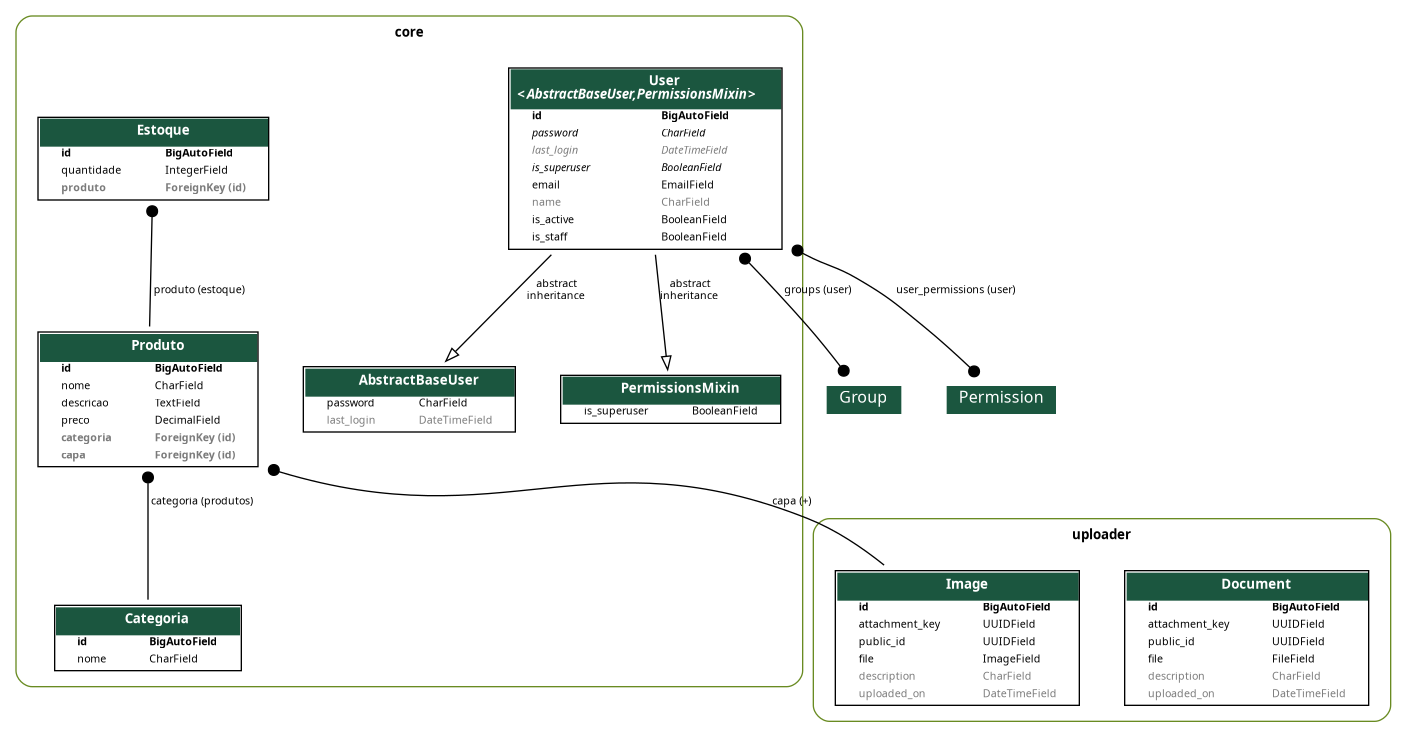
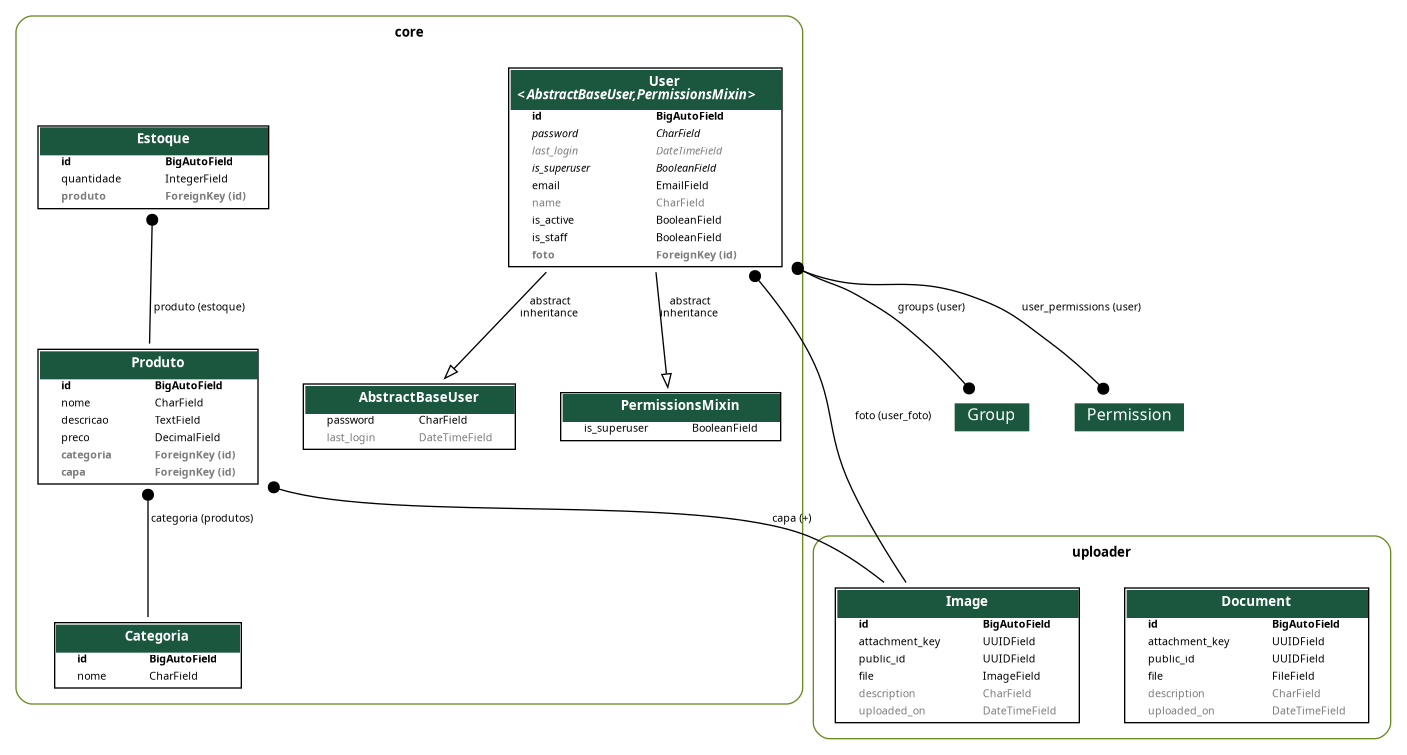
Feat 2: #3 Inserção da foto de usuario

diff --git a/core/serializers/user.py b/core/serializers/user.py
@@ -1,18 +1,40 @@
-from rest_framework import serializers
-from rest_framework.serializers import ModelSerializer
+from rest_framework.serializers import CharField, ModelSerializer, SlugRelatedField
 
 from core.models import User
+from uploader.models import Image
+from uploader.serializers import ImageSerializer
 
 
 class UserSerializer(ModelSerializer):
+    foto_attachment_key = SlugRelatedField(
+        source='foto',
+        queryset=Image.objects.all(),
+        slug_field='attachment_key',
+        required=False,
+        write_only=True,
+    )
+    foto = ImageSerializer(
+        required=False,
+        read_only=True
+    )
     class Meta:
         model = User
-        fields = ['id', 'email', 'name', 'is_active', 'is_staff', 'is_superuser', 'last_login', 'groups']
+        fields = (
+            'id',
+            'email',
+            'name',
+            'foto',
+            'foto_attachment_key',
+            'is_active',
+            'is_staff',
+            'is_superuser',
+            'last_login',
+            'groups')
         depth = 1
 
 
 class UserRegistrationSerializer(ModelSerializer):
-    password = serializers.CharField(write_only=True, min_length=8)
+    password = CharField(write_only=True, min_length=8)
 
     class Meta:
         model = User

diff --git a/core/migrations/0011_user_foto.py b/core/migrations/0011_user_foto.py
@@ -1,0 +1,20 @@
+# Generated by Django 5.2.13 on 2026-05-20 11:29
+
+import django.db.models.deletion
+from django.db import migrations, models
+
+
+class Migration(migrations.Migration):
+
+    dependencies = [
+        ('core', '0010_produto_capa'),
+        ('uploader', '0001_initial'),
+    ]
+
+    operations = [
+        migrations.AddField(
+            model_name='user',
+            name='foto',
+            field=models.ForeignKey(blank=True, default=None, null=True, on_delete=django.db.models.deletion.SET_NULL, related_name='user_foto', to='uploader.image'),
+        ),
+    ]

diff --git a/core/models/user.py b/core/models/user.py
@@ -10,6 +10,8 @@ from django.contrib.auth.models import (
 from django.db import models
 from django.utils.translation import gettext_lazy as _
 
+from uploader.models import Image
+
 
 class UserManager(BaseUserManager):
     """Manager for users."""
@@ -61,3 +63,12 @@ class User(AbstractBaseUser, PermissionsMixin):
 
         verbose_name = 'Usuário'
         verbose_name_plural = 'Usuários'
+
+    foto = models.ForeignKey(
+        Image,
+        related_name='user_foto',
+        on_delete=models.SET_NULL,
+        null=True,
+        blank=True,
+        default=None,
+    )

diff --git a/app/settings.py b/app/settings.py
@@ -150,7 +150,7 @@ REST_FRAMEWORK = {
     'DEFAULT_PAGINATION_CLASS': 'app.pagination.CustomPagination',
     'DEFAULT_SCHEMA_CLASS': 'drf_spectacular.openapi.AutoSchema',
     'PAGE_SIZE': 10,
-    'DEFAULT_PERMISSION_CLASSES': ('rest_framework.permissions.DjangoModelPermissionsOrAnonReadOnly', ),  # autorização de acesso
+    'DEFAULT_PERMISSION_CLASSES': ('rest_framework.permissions.DjangoModelPermissionsOrAnonReadOnly',),
 }
 
 # Configurações do Simple JWT

diff --git a/core/views/categoria.py b/core/views/categoria.py
@@ -1,5 +1,4 @@
 from rest_framework.viewsets import ModelViewSet
-from rest_framework.permissions import IsAuthenticated
 
 from core.models import Categoria
 from core.serializers import CategoriaSerializer
@@ -8,4 +7,3 @@ from core.serializers import CategoriaSerializer
 class CategoriaViewSet(ModelViewSet):
     queryset = Categoria.objects.all()
     serializer_class = CategoriaSerializer
-    permission_classes = [IsAuthenticated]

diff --git a/core/admin.py b/core/admin.py
@@ -37,7 +37,8 @@ class UserAdmin(BaseUserAdmin):
     list_display = ['email', 'name']
     fieldsets = (
         (None, {'fields': ('email', 'password')}),
-        (_('Personal Info'), {'fields': ('name',)}),
+                (_('Personal Info'), {'fields': ('name', 'foto')}),# inclua a foto aqui
+
         (
             _('Permissions'),
             {
